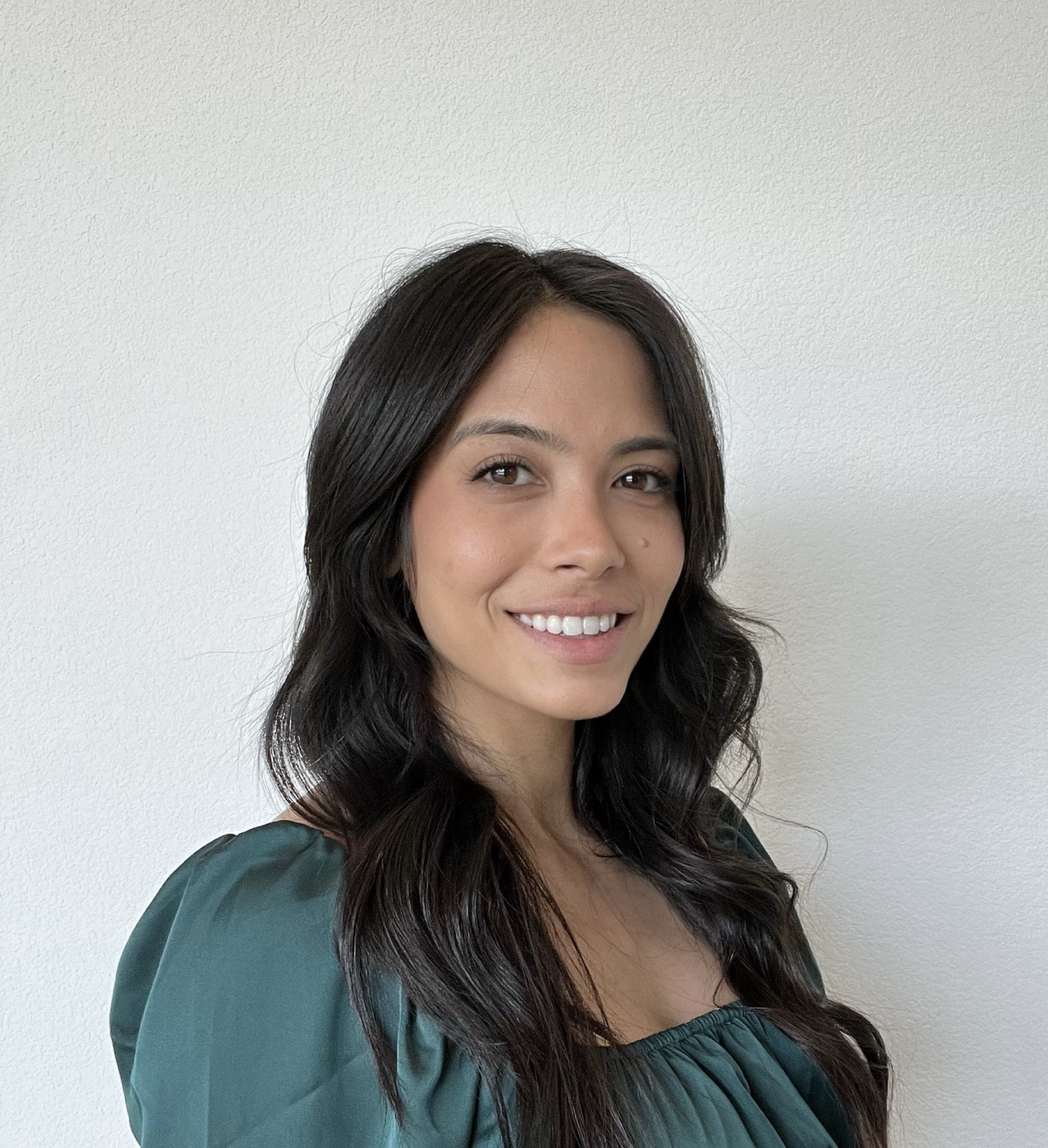
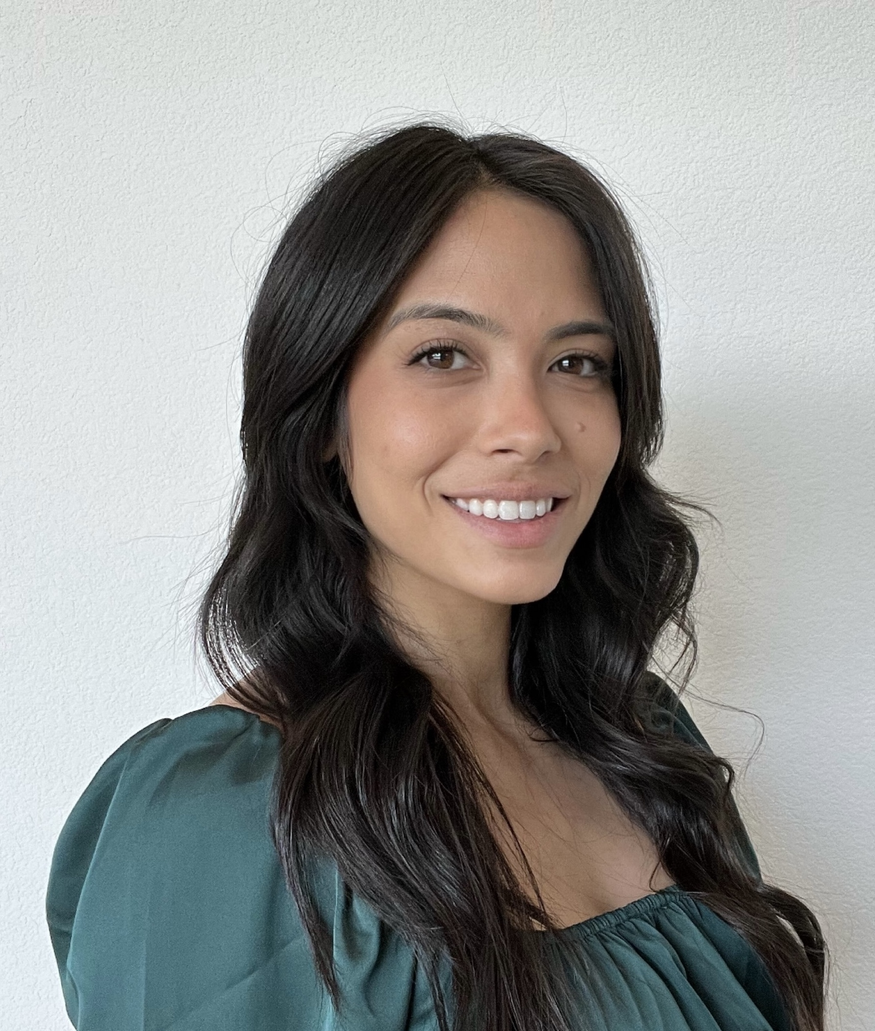
tweaked some dark/light mode styling

diff --git a/style.css b/style.css
@@ -1,30 +1,40 @@
+.dark #luxe-hahn {
+    color: white;
+    background-color: none;
+}
 
+.dark .bio {
+    color: white;
+}
+
+.dark {
+    background-color: rgb(70, 74, 71);
+    color: rgb(247, 247, 247);
+}
+ 
  body{
-    background-color: rgb(247, 247, 247);
+    background-color: #eff0f3;
     color: rgb(70, 74, 71);
     display: flex;
     font-family: 'Lato';
     justify-content: center;   
 }
 
+.fa-moon, .fa-sun {
+    display: flex;
+    justify-content: right;
+    
+}
+
  .home-page-content {
     display: flex;
-    align-items: center;
-    
+    align-items: center;   
 }
 
 img {
     max-width: 450px;
     max-height: 400px;
-    margin-left: 20px;
-}
-
-.hi {
-    position: relative;
-    display: flex;
-    justify-content: left;
-    font-size: 400px;
-    opacity: 0.1;
+    margin-left: 20px;   
 }
 
 .about-me-container {
@@ -33,12 +43,11 @@ img {
     justify-content: center;
     flex-direction: column;
     max-width: 400px;
-    height: 100vh;
+    height: 100vh;   
 }
 
-
-
 h1 {
+    color: #0d0d0d;
     font-size: 60px;
     margin-top: 0px;
     margin-bottom: 0px;
@@ -46,6 +55,7 @@ h1 {
 }
 
 h2 {
+    color: #8f8f8f;
     margin-top: 0px;
     margin-bottom: 10px;
     font-weight: 100;
@@ -54,33 +64,34 @@ h2 {
 p {
     font-size: 18px;
     margin-right: 20px;
+    color: #2a2a2a;
 }
 
-nav {
+.nav-container {
     display: flex;
-    justify-content: flex-start;
-    margin-right: 20px;
+    justify-content: left;
+    max-width: 400px;
 }
 
 ul {
     display: flex;
     list-style-type: none;
-    width: 400px;
-    justify-content: space-between;
+    justify-content: space-evenly;
     font-weight: 900;
     padding-left: 0px;
 }
 
 li {
+    color: #0d0d0d;
+    padding: 7px;
+    border-radius: 2px;
     text-decoration: none;
 }
 
-/* darkmode styling */
-
-.dark {
-    background-color: rgb(70, 74, 71);
-    color: rgb(247, 247, 247);
+li:hover {
+    background-color: #b8b8b8;
 }
+
 
 /* functionality styling */
 

diff --git a/index.html b/index.html
@@ -17,18 +17,21 @@
     <title>Luxe Hahn</title>
   </head>
   <body>
-    
+
+    <!-- <h1>Welcome</h1>
+     -->
+    <i class="fa-solid fa-moon"></i>
+        <i class="fa-solid fa-sun"></i>
     <div class="home-page-content">
       
-      <img src="profilepicture.jpg" alt="a photo of Luxe Hahn"/>
+      <img src="img_5176.jpg" alt="a photo of Luxe Hahn"/>
       
       <div class="about-me-container">
-        <h1>luxe hahn</h1>
+        <h1 id="luxe-hahn">luxe hahn</h1>
         <h2>/ software developer</h2>
-        <p>
+        <p class="bio">
           currently I am enrolled in a Software Engineering Immersive program, absorbing as much as I can in the hopes of becoming big brain. I am an avid home cook, a published fashion model, and a lover of the outdoors. Find me at the lake or on the golf course if I'm not in front of the computer coding away. 
         </p>
-        
         <div class="nav-container">
           <nav>
             <div class="nav-items">
@@ -38,13 +41,9 @@
                 <li class="contact">contact</li>
               </ul>
             </div>
-          </nav>
-          
-        </div>
-        
+          </nav>  
+        </div> 
       </div>
     </div>
-    <i class="fa-solid fa-moon"></i>
-    <i class="fa-solid fa-sun"></i>
   </body>
 </html>

diff --git a/app.js b/app.js
@@ -3,22 +3,33 @@ const body = document.querySelector('body');
 
 const homePageContent = document.querySelector('.home-page-content')
 
-const projectsNav = document.querySelector('.projects')
+const navList = document.querySelector('ul')
 
 const moon = document.querySelector('.fa-moon')
 
 const sun = document.querySelector('.fa-sun')
 
+const luxehahn = document.querySelector('#luxe-hahn');
+
+const bio = document.querySelector('.bio')
+
 
 // turn on dark mode
 function darkMode() {
     body.classList.add('dark');
+    h1.classList.add('dark');
+    bio.classList.add('dark')
 }
 
 moon.addEventListener('click', darkMode)
 
+
+//turn on light mode
 function lightMode() {
     body.classList.remove('dark');
+    h1.classList.remove('dark')
+    bio.classList.remove('dark')
+
 }
 
 sun.addEventListener('click', lightMode)
@@ -28,7 +39,7 @@ function hideMain() {
     homePageContent.classList.add('hide');
 }
 
-projectsNav.addEventListener('click', hideMain);
+navList.addEventListener('click', hideMain);
 
 
 
